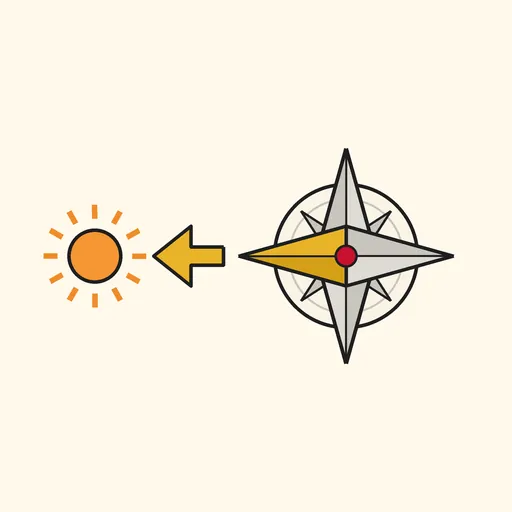
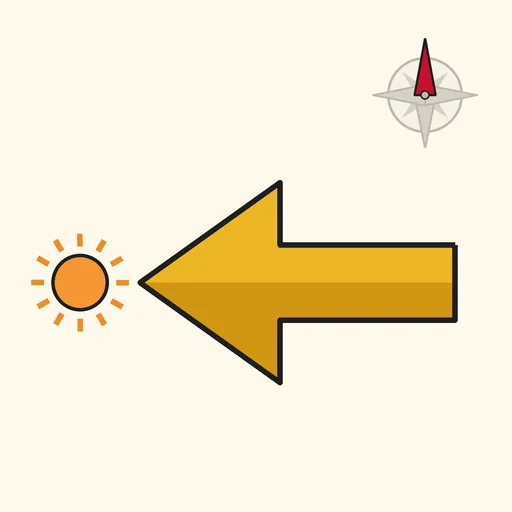
L4 set 1 pictures (20) + redrawn 南/西, art cache v3

Changed region(s): [[0.0625, 0.2812, 0.9062, 0.75], [0.7188, 0.0625, 0.9375, 0.2812]]

diff --git a/chinese-class-web/assets/art/index.js b/chinese-class-web/assets/art/index.js
@@ -10,9 +10,9 @@ Object.assign(ART_IDX,{"word/你好": 1, "word/再见": 1, "word/谢谢": 1, "wo
 window.PIC_TYPE_X=Object.assign(window.PIC_TYPE_X||{},{"你好": "ph", "再见": "ph", "谢谢": "ph", "对不起": "ph", "不客气": "ph", "没关系": "ph", "你": "pr", "我": "pr", "他": "pr", "她": "pr", "我们": "pr", "零": "num", "一": "num", "二": "num", "三": "num", "四": "num", "五": "num", "六": "num", "七": "num", "八": "num", "九": "num", "十": "num", "中国": "n", "北京": "n", "今天": "t", "明天": "t", "昨天": "t", "星期": "t", "年": "t", "日": "t", "点": "t", "分钟": "t", "上午": "t", "中午": "t", "下午": "t", "天气": "x", "前面": "x", "后面": "x", "上": "x", "下": "x", "里": "x", "块": "x", "漂亮": "x", "开": "x", "回": "x", "来": "x", "去": "x", "住": "x", "东西": "x", "本": "x", "看": "x", "读": "x", "说话": "x", "字": "x", "汉语": "x", "认识": "x", "名字": "x", "看见": "x", "喂": "x"});
 /* /L1-NEW */
 
-/* L24-NEW · ภาพใหม่จาก PIXEL (169 คำ, 0 ฉาก) — tools/pic-build/add_pics.py */
-Object.assign(ART_IDX,{"word/请问": 1, "word/不好意思": 1, "word/麻烦你": 1, "word/可以": 1, "word/对": 1, "word/知道": 1, "word/介绍": 1, "word/大家": 1, "word/第一": 1, "word/号": 1, "word/去年": 1, "word/百": 1, "word/千": 1, "word/次": 1, "word/课": 1, "word/进": 1, "word/早上好": 1, "word/晚上好": 1, "word/晚安": 1, "word/明天见": 1, "word/一会儿见": 1, "word/早上": 1, "word/晚上": 1, "word/说": 1, "word/一点儿": 1, "word/好吃": 1, "word/贵": 1, "word/便宜": 1, "word/哪儿": 1, "word/半": 1, "word/泰国": 1, "word/今年": 1, "word/一起": 1, "word/站": 1, "word/到": 1, "word/离": 1, "word/远": 1, "word/近": 1, "word/公斤": 1, "word/完": 1, "word/甜": 1, "word/再": 1, "word/觉得": 1, "word/小时": 1, "word/每天": 1, "word/经常": 1, "word/已经": 1, "word/开始": 1, "word/出": 1, "word/上班": 1, "word/下班": 1, "word/周末": 1, "word/红": 1, "word/白": 1, "word/黑": 1, "word/蓝": 1, "word/两": 1, "word/您": 1, "word/件": 1, "word/新": 1, "word/元": 1, "word/试": 1, "word/让": 1, "word/别": 1, "word/告诉": 1, "word/回答": 1, "word/事情": 1, "word/它": 1, "word/正在": 1, "word/为": 1, "word/向": 1, "word/从": 1, "word/题": 1, "word/身体": 1, "word/疼": 1, "word/大杯": 1, "word/中杯": 1, "word/小杯": 1, "word/少糖": 1, "word/加冰": 1, "word/去冰": 1, "word/外带": 1, "word/坏": 1, "word/奇怪": 1, "word/软": 1, "word/厚": 1, "word/亮": 1, "word/长": 1, "word/短": 1, "word/热情": 1, "word/比": 1, "word/一样": 1, "word/高": 1, "word/矮": 1, "word/容易": 1, "word/难": 1, "word/努力": 1, "word/辆": 1, "word/双": 1, "word/条": 1, "word/只": 1, "word/米": 1, "word/欢迎": 1, "word/欢迎光临": 1, "word/打包": 1, "word/左边": 1, "word/右边": 1, "word/中间": 1, "word/旁边": 1, "word/对面": 1, "word/外面": 1, "word/一直": 1, "word/东": 1, "word/同事": 1, "word/办公室": 1, "word/会议": 1, "word/帮助": 1, "word/作业": 1, "word/考试": 1, "word/成绩": 1, "word/复习": 1, "word/忙": 1, "word/担心": 1, "word/激动": 1, "word/满意": 1, "word/宾馆": 1, "word/交通": 1, "word/北方": 1, "word/风景": 1, "word/季节": 1, "word/世界": 1, "word/干净": 1, "word/讲": 1, "word/接": 1, "word/带": 1, "word/记得": 1, "word/忘记": 1, "word/年轻": 1, "word/刮": 1, "word/凉快": 1, "word/暖和": 1, "word/低": 1, "word/选择": 1, "word/失败": 1, "word/发现": 1, "word/遇到": 1, "word/认真": 1, "word/一边": 1, "word/数学": 1, "word/英语": 1, "word/地理": 1, "word/美术": 1, "word/放学": 1, "word/小心": 1, "word/租房": 1, "word/层": 1, "word/放": 1, "word/整理": 1, "word/乱": 1, "word/南": 1, "word/西": 1, "word/黄": 1, "word/绿": 1, "word/旧": 1, "word/老": 1, "word/口": 1, "word/张": 1, "word/问": 1, "word/祝": 1});
-window.PIC_TYPE_X=Object.assign(window.PIC_TYPE_X||{},{"请问": "ph", "不好意思": "ph", "麻烦你": "ph", "可以": "x", "对": "x", "知道": "x", "介绍": "x", "大家": "pr", "第一": "num", "号": "t", "去年": "t", "百": "num", "千": "num", "次": "x", "课": "x", "进": "x", "早上好": "ph", "晚上好": "ph", "晚安": "ph", "明天见": "ph", "一会儿见": "ph", "早上": "t", "晚上": "t", "说": "x", "一点儿": "x", "好吃": "x", "贵": "x", "便宜": "x", "哪儿": "pr", "半": "num", "泰国": "n", "今年": "t", "一起": "x", "站": "n", "到": "x", "离": "x", "远": "x", "近": "x", "公斤": "x", "完": "x", "甜": "x", "再": "x", "觉得": "x", "小时": "x", "每天": "t", "经常": "x", "已经": "x", "开始": "x", "出": "x", "上班": "x", "下班": "x", "周末": "t", "红": "x", "白": "x", "黑": "x", "蓝": "x", "两": "num", "您": "pr", "件": "x", "新": "x", "元": "x", "试": "x", "让": "x", "别": "x", "告诉": "x", "回答": "x", "事情": "x", "它": "pr", "正在": "x", "为": "x", "向": "x", "从": "x", "题": "x", "身体": "x", "疼": "x", "大杯": "x", "中杯": "x", "小杯": "x", "少糖": "ph", "加冰": "ph", "去冰": "ph", "外带": "x", "坏": "x", "奇怪": "x", "软": "x", "厚": "x", "亮": "x", "长": "x", "短": "x", "热情": "x", "比": "x", "一样": "x", "高": "x", "矮": "x", "容易": "x", "难": "x", "努力": "x", "辆": "x", "双": "x", "条": "x", "只": "x", "米": "x", "欢迎": "x", "欢迎光临": "ph", "打包": "x", "左边": "x", "右边": "x", "中间": "x", "旁边": "x", "对面": "x", "外面": "x", "一直": "x", "东": "x", "同事": "x", "办公室": "x", "会议": "x", "帮助": "x", "作业": "x", "考试": "x", "成绩": "x", "复习": "x", "忙": "x", "担心": "x", "激动": "x", "满意": "x", "宾馆": "x", "交通": "x", "北方": "x", "风景": "x", "季节": "x", "世界": "x", "干净": "x", "讲": "x", "接": "x", "带": "x", "记得": "x", "忘记": "x", "年轻": "x", "刮": "x", "凉快": "x", "暖和": "x", "低": "x", "选择": "x", "失败": "x", "发现": "x", "遇到": "x", "认真": "x", "一边": "x", "数学": "x", "英语": "x", "地理": "x", "美术": "x", "放学": "x", "小心": "x", "租房": "x", "层": "x", "放": "x", "整理": "x", "乱": "x", "南": "x", "西": "x", "黄": "x", "绿": "x", "旧": "x", "老": "x", "口": "x", "张": "x", "问": "x", "祝": "x"});
+/* L24-NEW · ภาพใหม่จาก PIXEL (189 คำ, 0 ฉาก) — tools/pic-build/add_pics.py */
+Object.assign(ART_IDX,{"word/请问": 1, "word/不好意思": 1, "word/麻烦你": 1, "word/可以": 1, "word/对": 1, "word/知道": 1, "word/介绍": 1, "word/大家": 1, "word/第一": 1, "word/号": 1, "word/去年": 1, "word/百": 1, "word/千": 1, "word/次": 1, "word/课": 1, "word/进": 1, "word/早上好": 1, "word/晚上好": 1, "word/晚安": 1, "word/明天见": 1, "word/一会儿见": 1, "word/早上": 1, "word/晚上": 1, "word/说": 1, "word/一点儿": 1, "word/好吃": 1, "word/贵": 1, "word/便宜": 1, "word/哪儿": 1, "word/半": 1, "word/泰国": 1, "word/今年": 1, "word/一起": 1, "word/站": 1, "word/到": 1, "word/离": 1, "word/远": 1, "word/近": 1, "word/公斤": 1, "word/完": 1, "word/甜": 1, "word/再": 1, "word/觉得": 1, "word/小时": 1, "word/每天": 1, "word/经常": 1, "word/已经": 1, "word/开始": 1, "word/出": 1, "word/上班": 1, "word/下班": 1, "word/周末": 1, "word/红": 1, "word/白": 1, "word/黑": 1, "word/蓝": 1, "word/两": 1, "word/您": 1, "word/件": 1, "word/新": 1, "word/元": 1, "word/试": 1, "word/让": 1, "word/别": 1, "word/告诉": 1, "word/回答": 1, "word/事情": 1, "word/它": 1, "word/正在": 1, "word/为": 1, "word/向": 1, "word/从": 1, "word/题": 1, "word/身体": 1, "word/疼": 1, "word/大杯": 1, "word/中杯": 1, "word/小杯": 1, "word/少糖": 1, "word/加冰": 1, "word/去冰": 1, "word/外带": 1, "word/坏": 1, "word/奇怪": 1, "word/软": 1, "word/厚": 1, "word/亮": 1, "word/长": 1, "word/短": 1, "word/热情": 1, "word/比": 1, "word/一样": 1, "word/高": 1, "word/矮": 1, "word/容易": 1, "word/难": 1, "word/努力": 1, "word/辆": 1, "word/双": 1, "word/条": 1, "word/只": 1, "word/米": 1, "word/欢迎": 1, "word/欢迎光临": 1, "word/打包": 1, "word/左边": 1, "word/右边": 1, "word/中间": 1, "word/旁边": 1, "word/对面": 1, "word/外面": 1, "word/一直": 1, "word/东": 1, "word/同事": 1, "word/办公室": 1, "word/会议": 1, "word/帮助": 1, "word/作业": 1, "word/考试": 1, "word/成绩": 1, "word/复习": 1, "word/忙": 1, "word/担心": 1, "word/激动": 1, "word/满意": 1, "word/宾馆": 1, "word/交通": 1, "word/北方": 1, "word/风景": 1, "word/季节": 1, "word/世界": 1, "word/干净": 1, "word/讲": 1, "word/接": 1, "word/带": 1, "word/记得": 1, "word/忘记": 1, "word/年轻": 1, "word/刮": 1, "word/凉快": 1, "word/暖和": 1, "word/低": 1, "word/选择": 1, "word/失败": 1, "word/发现": 1, "word/遇到": 1, "word/认真": 1, "word/一边": 1, "word/数学": 1, "word/英语": 1, "word/地理": 1, "word/美术": 1, "word/放学": 1, "word/小心": 1, "word/租房": 1, "word/层": 1, "word/放": 1, "word/整理": 1, "word/乱": 1, "word/南": 1, "word/西": 1, "word/黄": 1, "word/绿": 1, "word/旧": 1, "word/老": 1, "word/口": 1, "word/张": 1, "word/问": 1, "word/祝": 1, "word/群": 1, "word/活泼": 1, "word/动物园": 1, "word/可怜": 1, "word/马拉松": 1, "word/力气": 1, "word/决赛": 1, "word/亚洲": 1, "word/美国": 1, "word/法国": 1, "word/德国": 1, "word/首都": 1, "word/房间": 1, "word/暗": 1, "word/钟": 1, "word/日历": 1, "word/起飞": 1, "word/入口": 1, "word/托运": 1, "word/候机": 1});
+window.PIC_TYPE_X=Object.assign(window.PIC_TYPE_X||{},{"请问": "ph", "不好意思": "ph", "麻烦你": "ph", "可以": "x", "对": "x", "知道": "x", "介绍": "x", "大家": "pr", "第一": "num", "号": "t", "去年": "t", "百": "num", "千": "num", "次": "x", "课": "x", "进": "x", "早上好": "ph", "晚上好": "ph", "晚安": "ph", "明天见": "ph", "一会儿见": "ph", "早上": "t", "晚上": "t", "说": "x", "一点儿": "x", "好吃": "x", "贵": "x", "便宜": "x", "哪儿": "pr", "半": "num", "泰国": "n", "今年": "t", "一起": "x", "站": "n", "到": "x", "离": "x", "远": "x", "近": "x", "公斤": "x", "完": "x", "甜": "x", "再": "x", "觉得": "x", "小时": "x", "每天": "t", "经常": "x", "已经": "x", "开始": "x", "出": "x", "上班": "x", "下班": "x", "周末": "t", "红": "x", "白": "x", "黑": "x", "蓝": "x", "两": "num", "您": "pr", "件": "x", "新": "x", "元": "x", "试": "x", "让": "x", "别": "x", "告诉": "x", "回答": "x", "事情": "x", "它": "pr", "正在": "x", "为": "x", "向": "x", "从": "x", "题": "x", "身体": "x", "疼": "x", "大杯": "x", "中杯": "x", "小杯": "x", "少糖": "ph", "加冰": "ph", "去冰": "ph", "外带": "x", "坏": "x", "奇怪": "x", "软": "x", "厚": "x", "亮": "x", "长": "x", "短": "x", "热情": "x", "比": "x", "一样": "x", "高": "x", "矮": "x", "容易": "x", "难": "x", "努力": "x", "辆": "x", "双": "x", "条": "x", "只": "x", "米": "x", "欢迎": "x", "欢迎光临": "ph", "打包": "x", "左边": "x", "右边": "x", "中间": "x", "旁边": "x", "对面": "x", "外面": "x", "一直": "x", "东": "x", "同事": "x", "办公室": "x", "会议": "x", "帮助": "x", "作业": "x", "考试": "x", "成绩": "x", "复习": "x", "忙": "x", "担心": "x", "激动": "x", "满意": "x", "宾馆": "x", "交通": "x", "北方": "x", "风景": "x", "季节": "x", "世界": "x", "干净": "x", "讲": "x", "接": "x", "带": "x", "记得": "x", "忘记": "x", "年轻": "x", "刮": "x", "凉快": "x", "暖和": "x", "低": "x", "选择": "x", "失败": "x", "发现": "x", "遇到": "x", "认真": "x", "一边": "x", "数学": "x", "英语": "x", "地理": "x", "美术": "x", "放学": "x", "小心": "x", "租房": "x", "层": "x", "放": "x", "整理": "x", "乱": "x", "南": "x", "西": "x", "黄": "x", "绿": "x", "旧": "x", "老": "x", "口": "x", "张": "x", "问": "x", "祝": "x", "群": "x", "活泼": "x", "动物园": "x", "可怜": "x", "马拉松": "x", "力气": "x", "决赛": "x", "亚洲": "x", "美国": "x", "法国": "x", "德国": "x", "首都": "x", "房间": "x", "暗": "x", "钟": "x", "日历": "x", "起飞": "x", "入口": "x", "托运": "x", "候机": "x"});
 /* /L24-NEW */
 
 /* ภาพคำศัพท์จาก PIXEL (711 คำ) · webp 512px — สร้างโดย tools/pic-build/build_pics.py */

diff --git a/chinese-class-web/sw.js b/chinese-class-web/sw.js
@@ -5,8 +5,8 @@
    • เสียง mp3: แคชตอนเล่น (เก็บล่าสุด RT_MAX ไฟล์) + แพ็กที่ผู้ใช้กดดาวน์โหลด (lama-dl-v1 ไม่ลบเอง) · ตอบ Range เป็น 206 ให้ Safari
    • ข้อมูลลำดับขีด/hanzi-writer/รูป webp/ฟอนต์จีน: แคชเมื่อใช้ (cache-first)
    • activate: ลบแคช shell เวอร์ชันเก่า */
-/*shell*/const V='3486450b7c',SHELL=["index.html","manifest.webmanifest","favicon.ico","sync-config.js?v=3486450b7c","sync-merge.js?v=3486450b7c","sync-supabase.js?v=3486450b7c","sync.js?v=3486450b7c","fonts/fonts.css?v=3486450b7c","style.css?v=3486450b7c","style2.css?v=3486450b7c","stroke.css?v=3486450b7c","home.css?v=3486450b7c","piclearn.css?v=3486450b7c","pinroom.css?v=3486450b7c","rad.css?v=3486450b7c","l1.css?v=3486450b7c","config.js?v=3486450b7c","data/common.js?v=3486450b7c","data/hsk1.js?v=3486450b7c","data/hsk2.js?v=3486450b7c","data/hsk2x.js?v=3486450b7c","data/hsk3.js?v=3486450b7c","data/hsk4.js?v=3486450b7c","data/hsk5.js?v=3486450b7c","data/place.js?v=3486450b7c","data/labs.js?v=3486450b7c","audio-index.js?v=3486450b7c","data.js?v=3486450b7c","core.js?v=3486450b7c","piclearn.js?v=3486450b7c","learn.js?v=3486450b7c","games.js?v=3486450b7c","social.js?v=3486450b7c","extra.js?v=3486450b7c","engage.js?v=3486450b7c","cards.js?v=3486450b7c","onboard.js?v=3486450b7c","levels.js?v=3486450b7c","tutor.js?v=3486450b7c","league.js?v=3486450b7c","badges.js?v=3486450b7c","formats.js?v=3486450b7c","weekly.js?v=3486450b7c","buddy2.js?v=3486450b7c","tonelab.js?v=3486450b7c","labs.js?v=3486450b7c","data/stroke/index.js?v=3486450b7c","stroke.js?v=3486450b7c","assets/art/index.js?v=3486450b7c","data/rad/rad.js?v=3486450b7c","data/rad/pic.js?v=3486450b7c","rad.js?v=3486450b7c","radgame.js?v=3486450b7c","radcol.js?v=3486450b7c","data/pinyin/syllables.js?v=3486450b7c","pinroom.js?v=3486450b7c","backup.js?v=3486450b7c","offline-index.js?v=3486450b7c","offline.js?v=3486450b7c","home.js?v=3486450b7c","know.js?v=3486450b7c","mw.js?v=3486450b7c","l1.js?v=3486450b7c","deeplink.js?v=3486450b7c","assets/icons/apple-touch-icon.png","assets/icons/favicon-64.png","assets/icons/icon-192.png","assets/icons/icon-512.png","assets/icons/stk-zi.svg","fonts/UcC73FwrK3iLTeHuS_nVMrMxCp50SjIa0ZL7SUc.woff2","fonts/UcC73FwrK3iLTeHuS_nVMrMxCp50SjIa1ZL7.woff2","fonts/UcC73FwrK3iLTeHuS_nVMrMxCp50SjIa1pL7SUc.woff2","fonts/UcC73FwrK3iLTeHuS_nVMrMxCp50SjIa25L7SUc.woff2","fonts/UcC73FwrK3iLTeHuS_nVMrMxCp50SjIa2JL7SUc.woff2","fonts/UcC73FwrK3iLTeHuS_nVMrMxCp50SjIa2ZL7SUc.woff2","fonts/UcC73FwrK3iLTeHuS_nVMrMxCp50SjIa2pL7SUc.woff2","fonts/m8JMje1VVIzcq1HzJq2AEdo2Tj_qvLqE-vU1Z-JHa74.woff2","fonts/m8JMje1VVIzcq1HzJq2AEdo2Tj_qvLqE-vU1ZOJHa74.woff2","fonts/m8JMje1VVIzcq1HzJq2AEdo2Tj_qvLqE-vU1auJH.woff2","fonts/m8JMje1VVIzcq1HzJq2AEdo2Tj_qvLqE-vU1fuJHa74.woff2","fonts/m8JMje1VVIzcq1HzJq2AEdo2Tj_qvLqE1vI1Z-JHa74.woff2","fonts/m8JMje1VVIzcq1HzJq2AEdo2Tj_qvLqE1vI1ZOJHa74.woff2","fonts/m8JMje1VVIzcq1HzJq2AEdo2Tj_qvLqE1vI1auJH.woff2","fonts/m8JMje1VVIzcq1HzJq2AEdo2Tj_qvLqE1vI1fuJHa74.woff2","fonts/m8JMje1VVIzcq1HzJq2AEdo2Tj_qvLqEsvM1Z-JHa74.woff2","fonts/m8JMje1VVIzcq1HzJq2AEdo2Tj_qvLqEsvM1ZOJHa74.woff2","fonts/m8JMje1VVIzcq1HzJq2AEdo2Tj_qvLqEsvM1auJH.woff2","fonts/m8JMje1VVIzcq1HzJq2AEdo2Tj_qvLqEsvM1fuJHa74.woff2","fonts/m8JPje1VVIzcq1HzJq2AEdo2Tj_qvLqMB9YgVcM.woff2","fonts/m8JPje1VVIzcq1HzJq2AEdo2Tj_qvLqMBNYgVcM.woff2","fonts/m8JPje1VVIzcq1HzJq2AEdo2Tj_qvLqMCdYg.woff2","fonts/m8JPje1VVIzcq1HzJq2AEdo2Tj_qvLqMHdYgVcM.woff2","assets/mascot/boss.webp","assets/mascot/bow.webp","assets/mascot/brush.webp","assets/mascot/buddy.webp","assets/mascot/celebrate.webp","assets/mascot/cheer.webp","assets/mascot/chest.webp","assets/mascot/correct.webp","assets/mascot/duel.webp","assets/mascot/empty.webp","assets/mascot/gift.webp","assets/mascot/jump.webp","assets/mascot/lantern.webp","assets/mascot/levelup.webp","assets/mascot/listening.webp","assets/mascot/locked.webp","assets/mascot/notfound.webp","assets/mascot/plum.webp","assets/mascot/read.webp","assets/mascot/shock.webp","assets/mascot/sleepy.webp","assets/mascot/speaking.webp","assets/mascot/story.webp","assets/mascot/streak.webp","assets/mascot/streaklost.webp","assets/mascot/student.webp","assets/mascot/tea.webp","assets/mascot/teach.webp","assets/mascot/teacher.webp","assets/mascot/think.webp","assets/mascot/thumbs.webp","assets/mascot/timer.webp","assets/mascot/tired.webp","assets/mascot/travel.webp","assets/mascot/trophy.webp","assets/mascot/wave.webp","assets/mascot/write.webp","assets/mascot/wrong.webp","assets/friends/s01.webp","assets/friends/s03.webp","assets/friends/s04.webp","assets/friends/s05.webp","assets/friends/s06.webp","assets/friends/s07.webp","vendor/hanzi-writer.min.js"];
-const SH='lama-shell-'+V,STK='lama-stk-v1',ART='lama-art-v2',FONT='lama-font-v1',RT='lama-audio-rt-v1',DL='lama-dl-v1',RT_MAX=400;
+/*shell*/const V='3cf5a2a112',SHELL=["index.html","manifest.webmanifest","favicon.ico","sync-config.js?v=3cf5a2a112","sync-merge.js?v=3cf5a2a112","sync-supabase.js?v=3cf5a2a112","sync.js?v=3cf5a2a112","fonts/fonts.css?v=3cf5a2a112","style.css?v=3cf5a2a112","style2.css?v=3cf5a2a112","stroke.css?v=3cf5a2a112","home.css?v=3cf5a2a112","piclearn.css?v=3cf5a2a112","pinroom.css?v=3cf5a2a112","rad.css?v=3cf5a2a112","l1.css?v=3cf5a2a112","config.js?v=3cf5a2a112","data/common.js?v=3cf5a2a112","data/hsk1.js?v=3cf5a2a112","data/hsk2.js?v=3cf5a2a112","data/hsk2x.js?v=3cf5a2a112","data/hsk3.js?v=3cf5a2a112","data/hsk4.js?v=3cf5a2a112","data/hsk5.js?v=3cf5a2a112","data/place.js?v=3cf5a2a112","data/labs.js?v=3cf5a2a112","audio-index.js?v=3cf5a2a112","data.js?v=3cf5a2a112","core.js?v=3cf5a2a112","piclearn.js?v=3cf5a2a112","learn.js?v=3cf5a2a112","games.js?v=3cf5a2a112","social.js?v=3cf5a2a112","extra.js?v=3cf5a2a112","engage.js?v=3cf5a2a112","cards.js?v=3cf5a2a112","onboard.js?v=3cf5a2a112","levels.js?v=3cf5a2a112","tutor.js?v=3cf5a2a112","league.js?v=3cf5a2a112","badges.js?v=3cf5a2a112","formats.js?v=3cf5a2a112","weekly.js?v=3cf5a2a112","buddy2.js?v=3cf5a2a112","tonelab.js?v=3cf5a2a112","labs.js?v=3cf5a2a112","data/stroke/index.js?v=3cf5a2a112","stroke.js?v=3cf5a2a112","assets/art/index.js?v=3cf5a2a112","data/rad/rad.js?v=3cf5a2a112","data/rad/pic.js?v=3cf5a2a112","rad.js?v=3cf5a2a112","radgame.js?v=3cf5a2a112","radcol.js?v=3cf5a2a112","data/pinyin/syllables.js?v=3cf5a2a112","pinroom.js?v=3cf5a2a112","backup.js?v=3cf5a2a112","offline-index.js?v=3cf5a2a112","offline.js?v=3cf5a2a112","home.js?v=3cf5a2a112","know.js?v=3cf5a2a112","mw.js?v=3cf5a2a112","l1.js?v=3cf5a2a112","deeplink.js?v=3cf5a2a112","assets/icons/apple-touch-icon.png","assets/icons/favicon-64.png","assets/icons/icon-192.png","assets/icons/icon-512.png","assets/icons/stk-zi.svg","fonts/UcC73FwrK3iLTeHuS_nVMrMxCp50SjIa0ZL7SUc.woff2","fonts/UcC73FwrK3iLTeHuS_nVMrMxCp50SjIa1ZL7.woff2","fonts/UcC73FwrK3iLTeHuS_nVMrMxCp50SjIa1pL7SUc.woff2","fonts/UcC73FwrK3iLTeHuS_nVMrMxCp50SjIa25L7SUc.woff2","fonts/UcC73FwrK3iLTeHuS_nVMrMxCp50SjIa2JL7SUc.woff2","fonts/UcC73FwrK3iLTeHuS_nVMrMxCp50SjIa2ZL7SUc.woff2","fonts/UcC73FwrK3iLTeHuS_nVMrMxCp50SjIa2pL7SUc.woff2","fonts/m8JMje1VVIzcq1HzJq2AEdo2Tj_qvLqE-vU1Z-JHa74.woff2","fonts/m8JMje1VVIzcq1HzJq2AEdo2Tj_qvLqE-vU1ZOJHa74.woff2","fonts/m8JMje1VVIzcq1HzJq2AEdo2Tj_qvLqE-vU1auJH.woff2","fonts/m8JMje1VVIzcq1HzJq2AEdo2Tj_qvLqE-vU1fuJHa74.woff2","fonts/m8JMje1VVIzcq1HzJq2AEdo2Tj_qvLqE1vI1Z-JHa74.woff2","fonts/m8JMje1VVIzcq1HzJq2AEdo2Tj_qvLqE1vI1ZOJHa74.woff2","fonts/m8JMje1VVIzcq1HzJq2AEdo2Tj_qvLqE1vI1auJH.woff2","fonts/m8JMje1VVIzcq1HzJq2AEdo2Tj_qvLqE1vI1fuJHa74.woff2","fonts/m8JMje1VVIzcq1HzJq2AEdo2Tj_qvLqEsvM1Z-JHa74.woff2","fonts/m8JMje1VVIzcq1HzJq2AEdo2Tj_qvLqEsvM1ZOJHa74.woff2","fonts/m8JMje1VVIzcq1HzJq2AEdo2Tj_qvLqEsvM1auJH.woff2","fonts/m8JMje1VVIzcq1HzJq2AEdo2Tj_qvLqEsvM1fuJHa74.woff2","fonts/m8JPje1VVIzcq1HzJq2AEdo2Tj_qvLqMB9YgVcM.woff2","fonts/m8JPje1VVIzcq1HzJq2AEdo2Tj_qvLqMBNYgVcM.woff2","fonts/m8JPje1VVIzcq1HzJq2AEdo2Tj_qvLqMCdYg.woff2","fonts/m8JPje1VVIzcq1HzJq2AEdo2Tj_qvLqMHdYgVcM.woff2","assets/mascot/boss.webp","assets/mascot/bow.webp","assets/mascot/brush.webp","assets/mascot/buddy.webp","assets/mascot/celebrate.webp","assets/mascot/cheer.webp","assets/mascot/chest.webp","assets/mascot/correct.webp","assets/mascot/duel.webp","assets/mascot/empty.webp","assets/mascot/gift.webp","assets/mascot/jump.webp","assets/mascot/lantern.webp","assets/mascot/levelup.webp","assets/mascot/listening.webp","assets/mascot/locked.webp","assets/mascot/notfound.webp","assets/mascot/plum.webp","assets/mascot/read.webp","assets/mascot/shock.webp","assets/mascot/sleepy.webp","assets/mascot/speaking.webp","assets/mascot/story.webp","assets/mascot/streak.webp","assets/mascot/streaklost.webp","assets/mascot/student.webp","assets/mascot/tea.webp","assets/mascot/teach.webp","assets/mascot/teacher.webp","assets/mascot/think.webp","assets/mascot/thumbs.webp","assets/mascot/timer.webp","assets/mascot/tired.webp","assets/mascot/travel.webp","assets/mascot/trophy.webp","assets/mascot/wave.webp","assets/mascot/write.webp","assets/mascot/wrong.webp","assets/friends/s01.webp","assets/friends/s03.webp","assets/friends/s04.webp","assets/friends/s05.webp","assets/friends/s06.webp","assets/friends/s07.webp","vendor/hanzi-writer.min.js"];
+const SH='lama-shell-'+V,STK='lama-stk-v1',ART='lama-art-v3',FONT='lama-font-v1',RT='lama-audio-rt-v1',DL='lama-dl-v1',RT_MAX=400;
 self.addEventListener('install',e=>{e.waitUntil(caches.open(SH).then(c=>c.addAll(SHELL.map(u=>new Request(u,{cache:'reload'})))).then(()=>self.skipWaiting()))});
 self.addEventListener('activate',e=>{e.waitUntil(caches.keys().then(ks=>Promise.all(ks.filter(k=>(k.startsWith('lama-shell-')&&k!==SH)||(k.startsWith('lama-stk-')&&k!==STK)||(k.startsWith('lama-art-')&&k!==ART)).map(k=>caches.delete(k)))).then(()=>self.clients.claim()))});
 const inDL=r=>caches.open(DL).then(c=>c.match(r,{ignoreSearch:true}));

diff --git a/chinese-class-web/index.html b/chinese-class-web/index.html
@@ -2,7 +2,7 @@
 <html lang="th">
 <head>
 <meta charset="utf-8">
-<script src="sync-config.js?v=3486450b7c" defer></script><script src="sync-merge.js?v=3486450b7c" defer></script><script src="sync-supabase.js?v=3486450b7c" defer></script><script src="sync.js?v=3486450b7c" defer></script>
+<script src="sync-config.js?v=3cf5a2a112" defer></script><script src="sync-merge.js?v=3cf5a2a112" defer></script><script src="sync-supabase.js?v=3cf5a2a112" defer></script><script src="sync.js?v=3cf5a2a112" defer></script>
 <meta name="viewport" content="width=device-width, initial-scale=1, viewport-fit=cover">
 <meta name="theme-color" content="#FAF7F2">
 <!--brand:start--><title>เหล่าซือลามา — ตัวอย่างทดลอง</title>
@@ -10,8 +10,8 @@
 <meta property="og:type" content="website"><meta property="og:site_name" content="เหล่าซือลามา"><meta property="og:locale" content="th_TH"><meta property="og:title" content="เหล่าซือลามา — ตัวอย่างทดลอง"><meta property="og:description" content="ตัวอย่างทดลองเว็บเรียนภาษาจีนสำหรับคนไทย เหล่าซือลามา เรียนสนุกผ่านเรื่องราว เกม และเพื่อนใน LINE (ยังไม่ใช่ระบบจริง)"><meta property="og:url" content="https://songyisong88.github.io/teepuan-games/chinese-class-web/"><meta property="og:image" content="https://songyisong88.github.io/teepuan-games/chinese-class-web/assets/og.jpg"><meta property="og:image:width" content="1200"><meta property="og:image:height" content="630"><meta property="og:image:alt" content="เหล่าซือลามา — ลามะอาจารย์สอนภาษาจีน">
 <meta name="twitter:card" content="summary_large_image"><meta name="twitter:title" content="เหล่าซือลามา — ตัวอย่างทดลอง"><meta name="twitter:description" content="ตัวอย่างทดลองเว็บเรียนภาษาจีนสำหรับคนไทย เหล่าซือลามา เรียนสนุกผ่านเรื่องราว เกม และเพื่อนใน LINE (ยังไม่ใช่ระบบจริง)"><meta name="twitter:image" content="https://songyisong88.github.io/teepuan-games/chinese-class-web/assets/og.jpg"><!--brand:end-->
 <link rel="icon" type="image/png" href="assets/icons/favicon-64.png"><link rel="apple-touch-icon" href="assets/icons/apple-touch-icon.png"><link rel="manifest" href="manifest.webmanifest">
-<link rel="stylesheet" href="fonts/fonts.css?v=3486450b7c">
-<link rel="stylesheet" href="style.css?v=3486450b7c"><link rel="stylesheet" href="style2.css?v=3486450b7c"><link rel="stylesheet" href="stroke.css?v=3486450b7c"><link rel="stylesheet" href="home.css?v=3486450b7c"><link rel="stylesheet" href="piclearn.css?v=3486450b7c"><link rel="stylesheet" href="pinroom.css?v=3486450b7c"><link rel="stylesheet" href="rad.css?v=3486450b7c"><link rel="stylesheet" href="l1.css?v=3486450b7c">
+<link rel="stylesheet" href="fonts/fonts.css?v=3cf5a2a112">
+<link rel="stylesheet" href="style.css?v=3cf5a2a112"><link rel="stylesheet" href="style2.css?v=3cf5a2a112"><link rel="stylesheet" href="stroke.css?v=3cf5a2a112"><link rel="stylesheet" href="home.css?v=3cf5a2a112"><link rel="stylesheet" href="piclearn.css?v=3cf5a2a112"><link rel="stylesheet" href="pinroom.css?v=3cf5a2a112"><link rel="stylesheet" href="rad.css?v=3cf5a2a112"><link rel="stylesheet" href="l1.css?v=3cf5a2a112">
 </head>
 <body>
 <div id="frame">
@@ -21,9 +21,9 @@
   <div id="toast" role="status"></div>
   <canvas id="fx"></canvas>
 </div>
-<!--ver:start--><script>window.APP_VER="3486450b7c"</script><!--ver:end--><script src="config.js?v=3486450b7c"></script><script>document.title=BRAND_NAME+" — ตัวอย่างทดลอง"</script>
-<script src="data/common.js?v=3486450b7c"></script><script src="data/hsk1.js?v=3486450b7c"></script><script src="data/hsk2.js?v=3486450b7c"></script><script src="data/hsk2x.js?v=3486450b7c"></script><script src="data/hsk3.js?v=3486450b7c"></script><script src="data/hsk4.js?v=3486450b7c"></script><script src="data/hsk5.js?v=3486450b7c"></script><script src="data/place.js?v=3486450b7c"></script><script src="data/labs.js?v=3486450b7c"></script><script src="audio-index.js?v=3486450b7c"></script>
-<script src="data.js?v=3486450b7c"></script><script src="core.js?v=3486450b7c"></script><script src="piclearn.js?v=3486450b7c"></script><script src="learn.js?v=3486450b7c"></script><script src="games.js?v=3486450b7c"></script><script src="social.js?v=3486450b7c"></script><script src="extra.js?v=3486450b7c"></script><script src="engage.js?v=3486450b7c"></script><script src="cards.js?v=3486450b7c"></script><script src="onboard.js?v=3486450b7c"></script>
-<script src="levels.js?v=3486450b7c"></script><script src="tutor.js?v=3486450b7c"></script><script src="league.js?v=3486450b7c"></script><script src="badges.js?v=3486450b7c"></script><script src="formats.js?v=3486450b7c"></script><script src="weekly.js?v=3486450b7c"></script><script src="buddy2.js?v=3486450b7c"></script><script src="tonelab.js?v=3486450b7c"></script><script src="labs.js?v=3486450b7c"></script><script src="data/stroke/index.js?v=3486450b7c"></script><script src="stroke.js?v=3486450b7c"></script><script src="assets/art/index.js?v=3486450b7c"></script><script src="data/rad/rad.js?v=3486450b7c"></script><script src="data/rad/pic.js?v=3486450b7c"></script><script src="rad.js?v=3486450b7c"></script><script src="radgame.js?v=3486450b7c"></script><script src="radcol.js?v=3486450b7c"></script><script src="data/pinyin/syllables.js?v=3486450b7c"></script><script src="pinroom.js?v=3486450b7c"></script><script src="backup.js?v=3486450b7c"></script><script src="offline-index.js?v=3486450b7c"></script><script src="offline.js?v=3486450b7c"></script><script src="home.js?v=3486450b7c"></script><script src="know.js?v=3486450b7c"></script><script src="mw.js?v=3486450b7c"></script><script src="l1.js?v=3486450b7c"></script><script src="deeplink.js?v=3486450b7c"></script>
+<!--ver:start--><script>window.APP_VER="3cf5a2a112"</script><!--ver:end--><script src="config.js?v=3cf5a2a112"></script><script>document.title=BRAND_NAME+" — ตัวอย่างทดลอง"</script>
+<script src="data/common.js?v=3cf5a2a112"></script><script src="data/hsk1.js?v=3cf5a2a112"></script><script src="data/hsk2.js?v=3cf5a2a112"></script><script src="data/hsk2x.js?v=3cf5a2a112"></script><script src="data/hsk3.js?v=3cf5a2a112"></script><script src="data/hsk4.js?v=3cf5a2a112"></script><script src="data/hsk5.js?v=3cf5a2a112"></script><script src="data/place.js?v=3cf5a2a112"></script><script src="data/labs.js?v=3cf5a2a112"></script><script src="audio-index.js?v=3cf5a2a112"></script>
+<script src="data.js?v=3cf5a2a112"></script><script src="core.js?v=3cf5a2a112"></script><script src="piclearn.js?v=3cf5a2a112"></script><script src="learn.js?v=3cf5a2a112"></script><script src="games.js?v=3cf5a2a112"></script><script src="social.js?v=3cf5a2a112"></script><script src="extra.js?v=3cf5a2a112"></script><script src="engage.js?v=3cf5a2a112"></script><script src="cards.js?v=3cf5a2a112"></script><script src="onboard.js?v=3cf5a2a112"></script>
+<script src="levels.js?v=3cf5a2a112"></script><script src="tutor.js?v=3cf5a2a112"></script><script src="league.js?v=3cf5a2a112"></script><script src="badges.js?v=3cf5a2a112"></script><script src="formats.js?v=3cf5a2a112"></script><script src="weekly.js?v=3cf5a2a112"></script><script src="buddy2.js?v=3cf5a2a112"></script><script src="tonelab.js?v=3cf5a2a112"></script><script src="labs.js?v=3cf5a2a112"></script><script src="data/stroke/index.js?v=3cf5a2a112"></script><script src="stroke.js?v=3cf5a2a112"></script><script src="assets/art/index.js?v=3cf5a2a112"></script><script src="data/rad/rad.js?v=3cf5a2a112"></script><script src="data/rad/pic.js?v=3cf5a2a112"></script><script src="rad.js?v=3cf5a2a112"></script><script src="radgame.js?v=3cf5a2a112"></script><script src="radcol.js?v=3cf5a2a112"></script><script src="data/pinyin/syllables.js?v=3cf5a2a112"></script><script src="pinroom.js?v=3cf5a2a112"></script><script src="backup.js?v=3cf5a2a112"></script><script src="offline-index.js?v=3cf5a2a112"></script><script src="offline.js?v=3cf5a2a112"></script><script src="home.js?v=3cf5a2a112"></script><script src="know.js?v=3cf5a2a112"></script><script src="mw.js?v=3cf5a2a112"></script><script src="l1.js?v=3cf5a2a112"></script><script src="deeplink.js?v=3cf5a2a112"></script>
 </body>
 </html>
